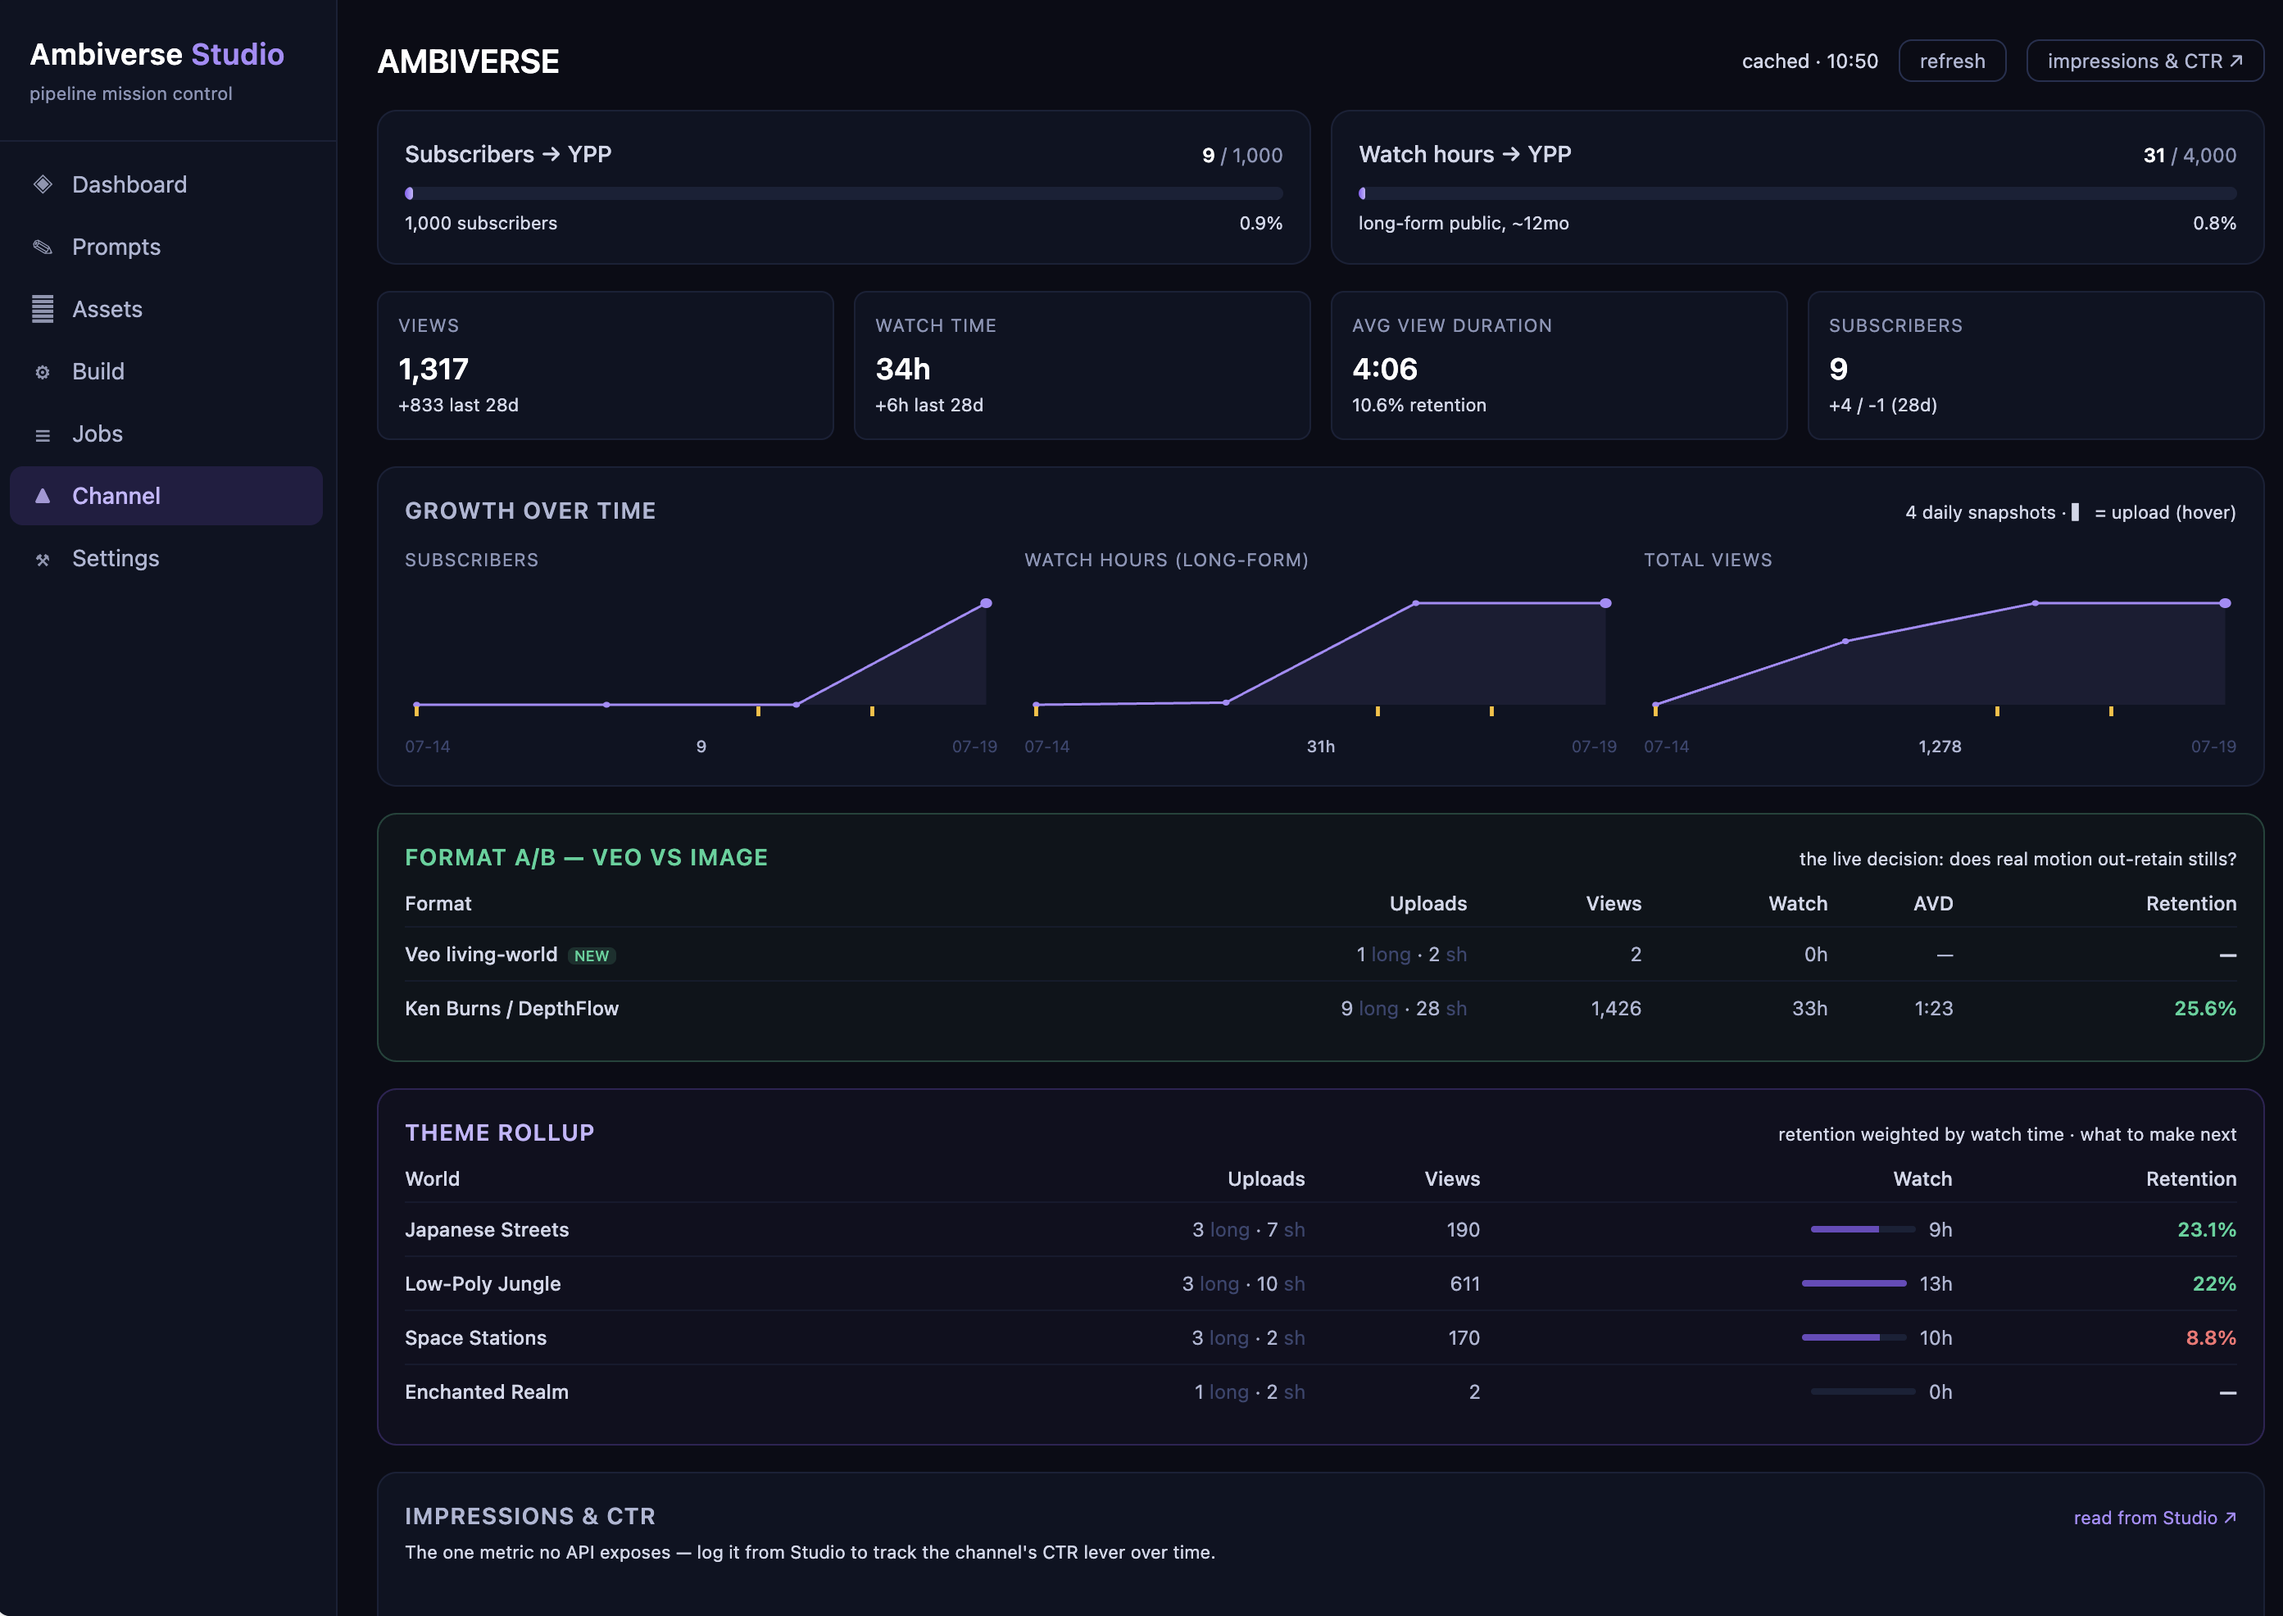
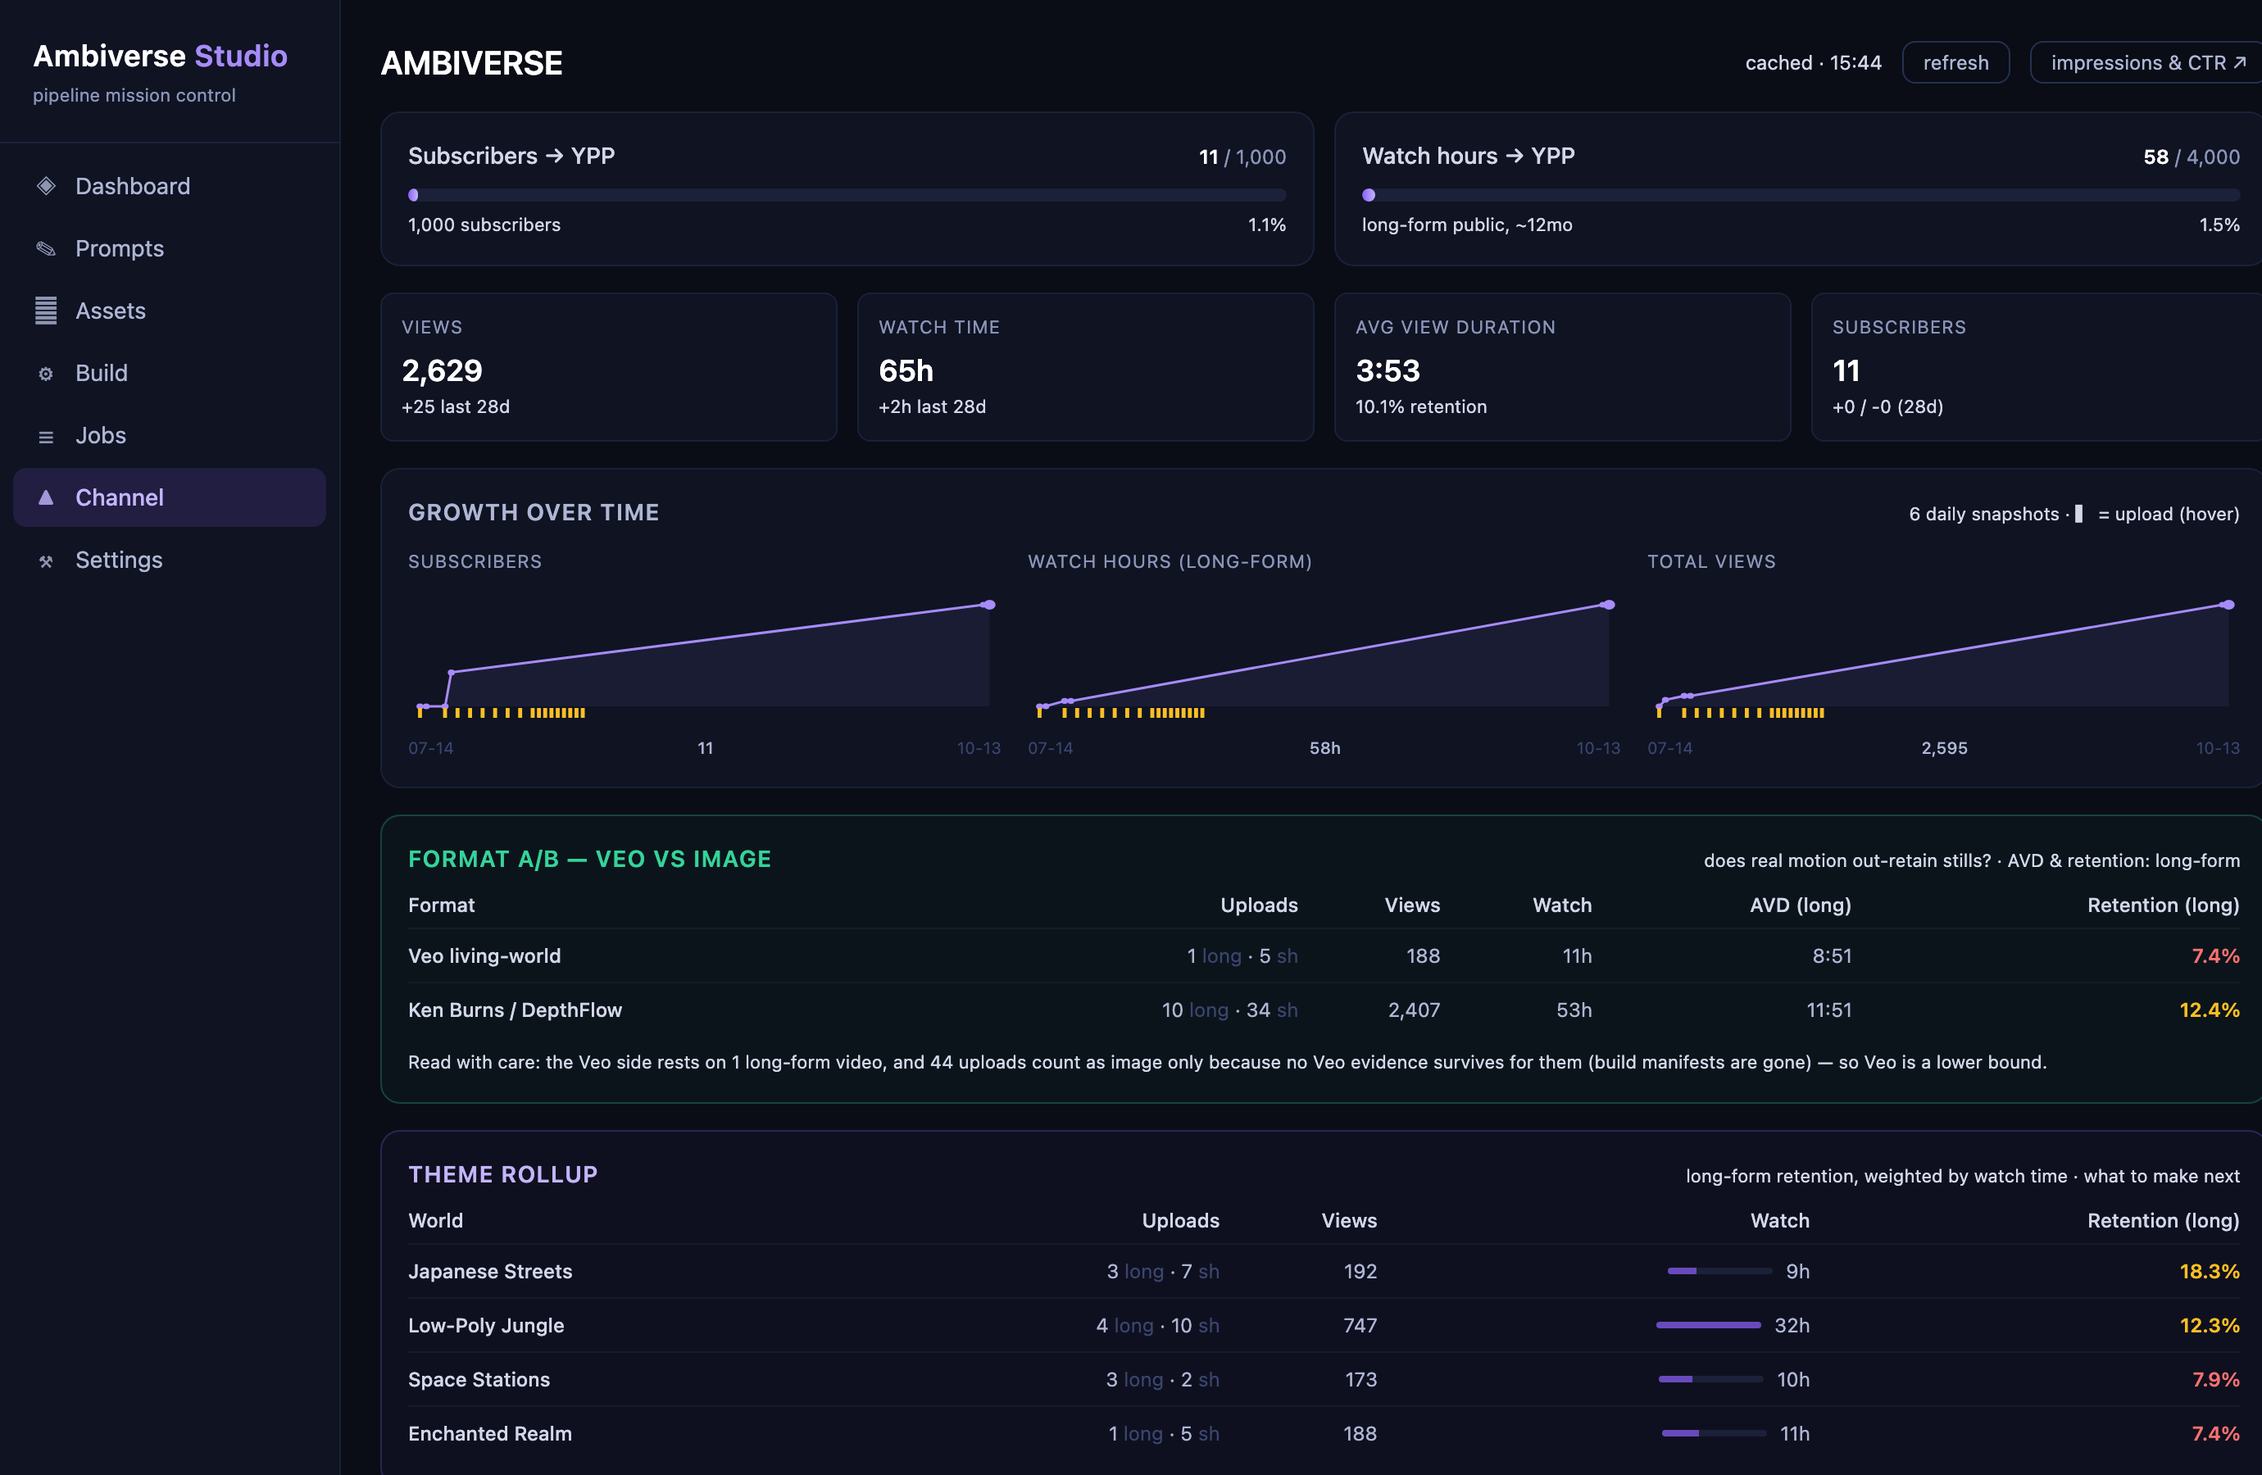
Fresh screenshots, ~/ paths in job logs, docs for the hiatus
- docs/screenshots/channel.png retaken: the July shot showed the old
  mixed Shorts+long retention. New jobs.png shows a demo build mid-run
  (progress bar + live log). Both captured headless at 2x.
- Job log headers print the interpreter path as ~/… (the log is shown in
  the UI and in screenshots); demo stand-ins print paths relative to the
  pipeline dir.
- HANDOFF: audit entry, a note that demo stand-ins must track any change
  to parsed log markers, and the Jul 26 backlog marked parked.
- CLAUDE.md: real vs demo mode, `make test` before commits, fixture and
  metrics rules, the three preview configs.
- docs/PLAN.md and docs/IDEAS.md flagged as historical.

diff --git a/server/jobs.py b/server/jobs.py
@@ -18,6 +18,7 @@ import subprocess
 import threading
 import time
 from datetime import datetime, timezone
+from pathlib import Path
 
 from config import ANIMEMBIENT_DIR, DATA_DIR, JOB_LOGS_DIR, PIPELINE, PIPELINE_PYTHON
 
@@ -518,7 +519,8 @@ def _run_job(job: dict):
         conn.execute("UPDATE jobs SET log_path=? WHERE id=?", (str(log_path), job["id"]))
     env = {**os.environ, **job["env"], "PYTHONUNBUFFERED": "1"}
     with open(log_path, "w") as log:
-        log.write(f"[studio] job {job['id']} ({job['type']}) — {' '.join(job['cmd'])}\n")
+        cmd_line = " ".join(job["cmd"]).replace(str(Path.home()), "~")  # the log is shown in the UI
+        log.write(f"[studio] job {job['id']} ({job['type']}) — {cmd_line}\n")
         if job["env"]:
             log.write(f"[studio] env: {job['env']}\n")
         log.flush()

diff --git a/demo/pipeline/build_veo_full.py b/demo/pipeline/build_veo_full.py
@@ -59,7 +59,8 @@ def main() -> None:
                 "track_names": [t.stem for t in tracks], "duration": duration,
                 "target_h": height, "built_at": dt.datetime.now().isoformat(timespec="seconds")}
     manifest_path.write_text(json.dumps(manifest, indent=2))
-    say(f"[full] DONE -> {video}\n[full] manifest -> {manifest_path}")
+    say(f"[full] DONE -> {video.relative_to(OUTPUT.parent)}\n"
+        f"[full] manifest -> {manifest_path.relative_to(OUTPUT.parent)}")
 
     if publish:
         say("[veo_publish] metadata: deterministic title + description (no invented scenes)")

diff --git a/demo/pipeline/main.py b/demo/pipeline/main.py
@@ -80,7 +80,7 @@ def main() -> None:
         stamp(f"Uploaded: https://youtu.be/{fake_id()}  (demo — nothing left this machine)")
     else:
         stamp("YOUTUBE_UPLOAD=false — skipping upload.")
-    stamp(f"Done. Video: {video}")
+    stamp(f"Done. Video: {video.relative_to(OUTPUT.parent)}")
 
 
 if __name__ == "__main__":

diff --git a/CLAUDE.md b/CLAUDE.md
@@ -19,12 +19,25 @@ After completing any code change, **automatically `git commit` + `git push origi
 3. **Read-only first, actions second.** Destructive ops = confirm + move to trash, never `rm`.
 4. **Single-flight heavy jobs** (16 GB RAM): one render at a time; wrap in `caffeinate -dimsu`; spawn with `start_new_session=True`; cancel kills the **process group**.
 
+## Status (Oct 2026)
+
+The channel is on hiatus; the repo is public and is a **portfolio piece** (LinkedIn Featured). Keep it working for visitors first: `make demo` must run on a fresh clone with no `.env`. The pipeline gained features after Jul 26 2026 (publish_queue, Omni Flash) that the studio doesn't surface — fine while paused.
+
+## Modes, tests, tooling
+
+- **Real mode:** `ANIMEMBIENT_DIR` set in `.env`. A set-but-wrong path must fail loudly — never fall back to demo silently.
+- **Demo mode:** `STUDIO_DEMO=1` or `ANIMEMBIENT_DIR` unset. `server/demo_seed.py` copies the stand-in pipeline `demo/pipeline/` into `data/demo/pipeline/` and generates assets. The stand-ins must print the **same log markers** as the real scripts (progress.py parses them) — when a parser changes, change the stand-in too. Channel data in demo = `demo/fixtures/channel_snapshot.json` (frozen real snapshot). Reset: `make demo-reset`.
+- **Before committing:** `make test` (pytest in demo mode + web lint/typecheck/build). CI runs the same on every push.
+- **Fixtures go public:** read them fully before committing (no tokens, no emails); never print local absolute paths in demo output — logs and screenshots show `~/…`.
+- **Metrics:** compare retention/AVD over long-form only (Shorts loop, view % can pass 100); label inferred attribution as inferred.
+
 ## Environment
 
-- **Ports:** API **4700**, Vite dev **5175** (8501 = trading dashboard, 5174 = wishplace — don't collide).
-- `.env`: `ANIMEMBIENT_DIR` (default `~/myFolder/Programming/animembient`), `DOWNLOADS_DIR`, `PORT`.
+- **Ports:** API **4700**, Vite dev **5175**, demo-mode preview **4701** (8501 = trading dashboard, 5174 = wishplace — don't collide).
+- `.env`: `ANIMEMBIENT_DIR`, `DOWNLOADS_DIR`, `PIPELINE_PYTHON`, `STUDIO_DEMO`, `PORT` — see `.env.example`.
 - Server venv: `server/venv`, Python ≥3.12. Frontend: Vite + React + TS + Tailwind, dark theme.
-- `.claude/launch.json` name **"studio"** for the preview tool.
+- Preview tool configs live in the **parent** folder's `.claude/launch.json`: **"studio"** (real, :4700, reload), **"studio-web"** (Vite :5175), **"studio-demo"** (demo, :4701, serves `web/dist` — rebuild it after UI changes).
+- Planning docs: `docs/PLAN.md` (milestones), `docs/IDEAS.md` (roadmap).
 
 ## Hard constraints
 

diff --git a/HANDOFF.md b/HANDOFF.md
@@ -13,6 +13,19 @@ They share the same machine but not the same conversation. **Ambiverse Studio wr
 
 ---
 
+## 2026-10-13 — Audit for the public repo; channel on hiatus (studio session)
+
+The channel stopped publishing in August 2026; the studio is now a public portfolio piece. Studio commits `06816c7` onward:
+- **Security:** the SPA catch-all could serve any file via `%2e%2e/` when `web/dist` existed — including the pipeline's `.env` and OAuth token. Fixed (`resolve_spa_file`), plus a Host-header allowlist against DNS rebinding.
+- **Job-done notifications never worked** (AppleScript built with `repr()` quotes) — fixed; `caffeinate`/`osascript` optional so Linux works.
+- **Analytics:** retention/AVD rollups compare long-form only (Shorts loop, view % can pass 100); the Format card states that Veo rests on one long-form video and that uploads without surviving manifests default to image.
+- **Demo mode:** `demo/pipeline/` holds stand-ins for every script the studio runs. **Pipeline sessions: if you change a progress marker the studio parses (`clip i/N done`, `[esrgan] i/N`, `[upload] N%`, `[full] (i/N)`, `[veo_assemble] building reel`, `[veo_publish] …`), change the stand-in too** — `server/tests` will catch parser drift.
+- Tests + CI on every push; job-log headers print paths as `~/…`.
+
+**Parked:** the 2026-07-26 backlog below (staggered uploads, collision guard, calendar, traffic trend, velocity warning) — the channel is on hiatus, and the pipeline's `publish_queue.py` already rate-limits Shorts. Pipeline features since Jul 26 (`publish_queue.py`, Omni Flash sources, montage Shorts, `VEO_SRC_GLOB`, `VEO_SHORTS_FILES`) are not surfaced in the studio. Revisit if publishing resumes.
+
+---
+
 ## 2026-07-18 (evening) — IDEAS "Now" backlog built (studio session)
 
 Studio `aa3a8ca`: IDEAS #2 format A/B tracker (collector tags veo|image from

diff --git a/README.md b/README.md
@@ -28,6 +28,18 @@ Things to try:
 - **Prompts** — copy-ready image and music prompts; *Generate fresh prompts* runs as a job.
 - **Channel** — a frozen snapshot of the real channel's analytics.
 
+**Jobs** — a demo build mid-run. The bar is parsed from the pipeline's own log markers, the log streams over SSE, and cancel stops the whole process group.
+
+![Jobs](docs/screenshots/jobs.png)
+
+**Channel** — the real channel's analytics: YPP progress, growth with upload markers, a Veo-vs-image comparison that states its own limits, and the per-world rollup.
+
+![Channel](docs/screenshots/channel.png)
+
+**Build** — every knob of the main build, the exact command it will run, and an inline preflight.
+
+![Build](docs/screenshots/build.png)
+
 ## What it does
 
 | Page | |

diff --git a/docs/PLAN.md b/docs/PLAN.md
@@ -1,5 +1,7 @@
 # Ambiverse Studio — Plan
 
+> Historical planning document (July 2026). All seven milestones shipped on 14 July 2026; the channel went on hiatus in August. The [README](../README.md) describes the current state.
+
 **One-liner:** a local web app (mission control) for the Ambiverse YouTube pipeline — see everything, run everything, from one UI instead of ~20 CLI scripts + env vars.
 
 - **Date:** 2026-07-13 · **Status:** M0–M6 all shipped 2026-07-14 — feature-complete against this plan

diff --git a/docs/IDEAS.md b/docs/IDEAS.md
@@ -1,5 +1,7 @@
 # IDEAS — what Studio + the pipeline could become
 
+> Historical roadmap (July 2026). The checked "Now" items shipped; the rest is parked since the channel went on hiatus in August. The [README](../README.md) describes the current state.
+
 *2026-07-18. A curated roadmap from a deep pass over the whole system: what's missing,
 what compounds, what's deliberately cut. Studio session: treat "Now" items as a backlog;
 everything else needs Sasha's go.*
